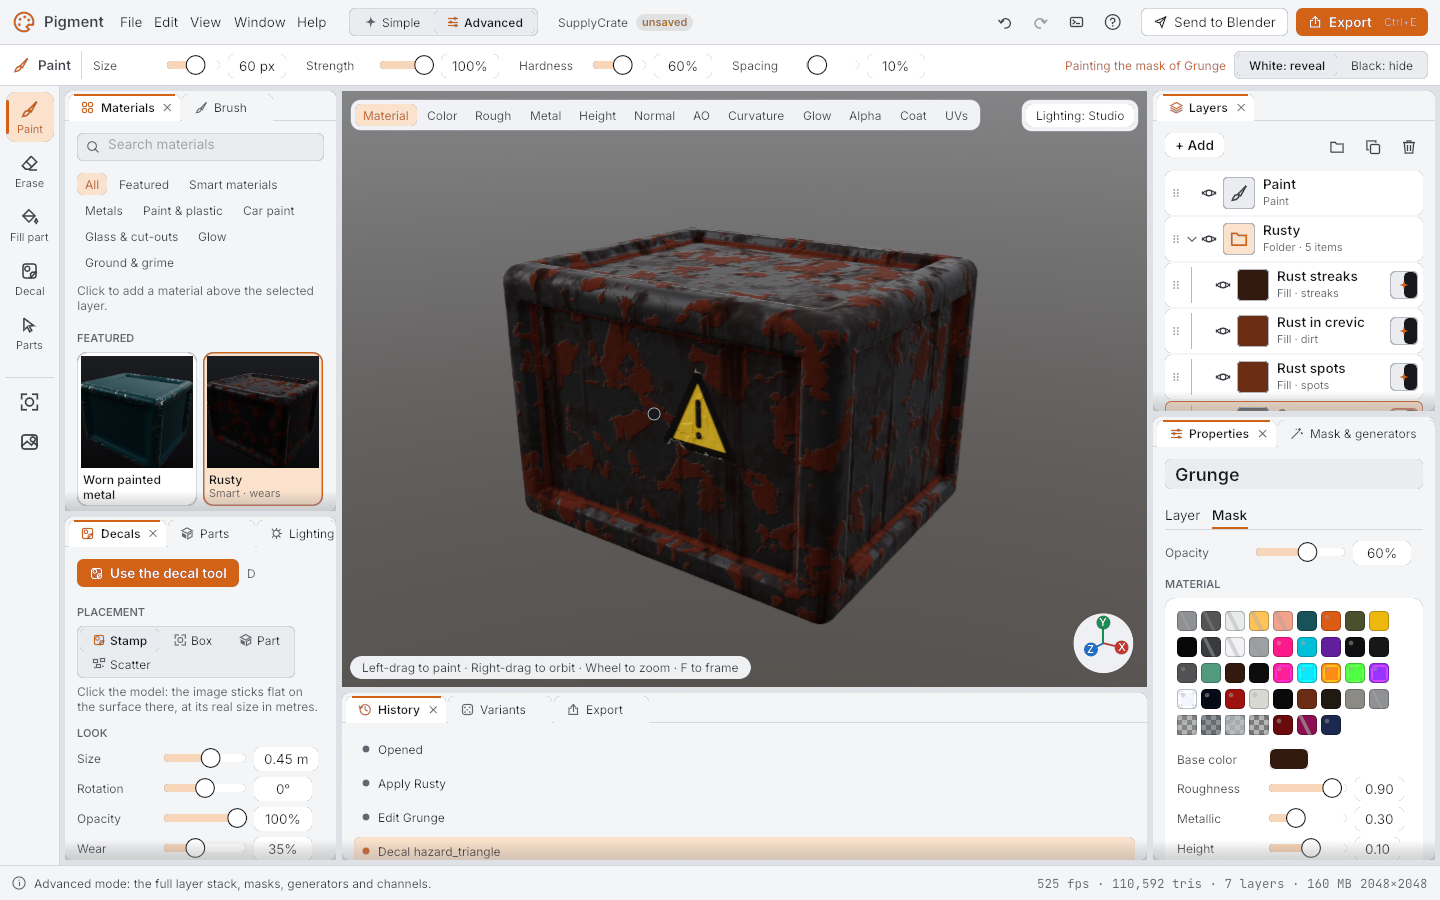
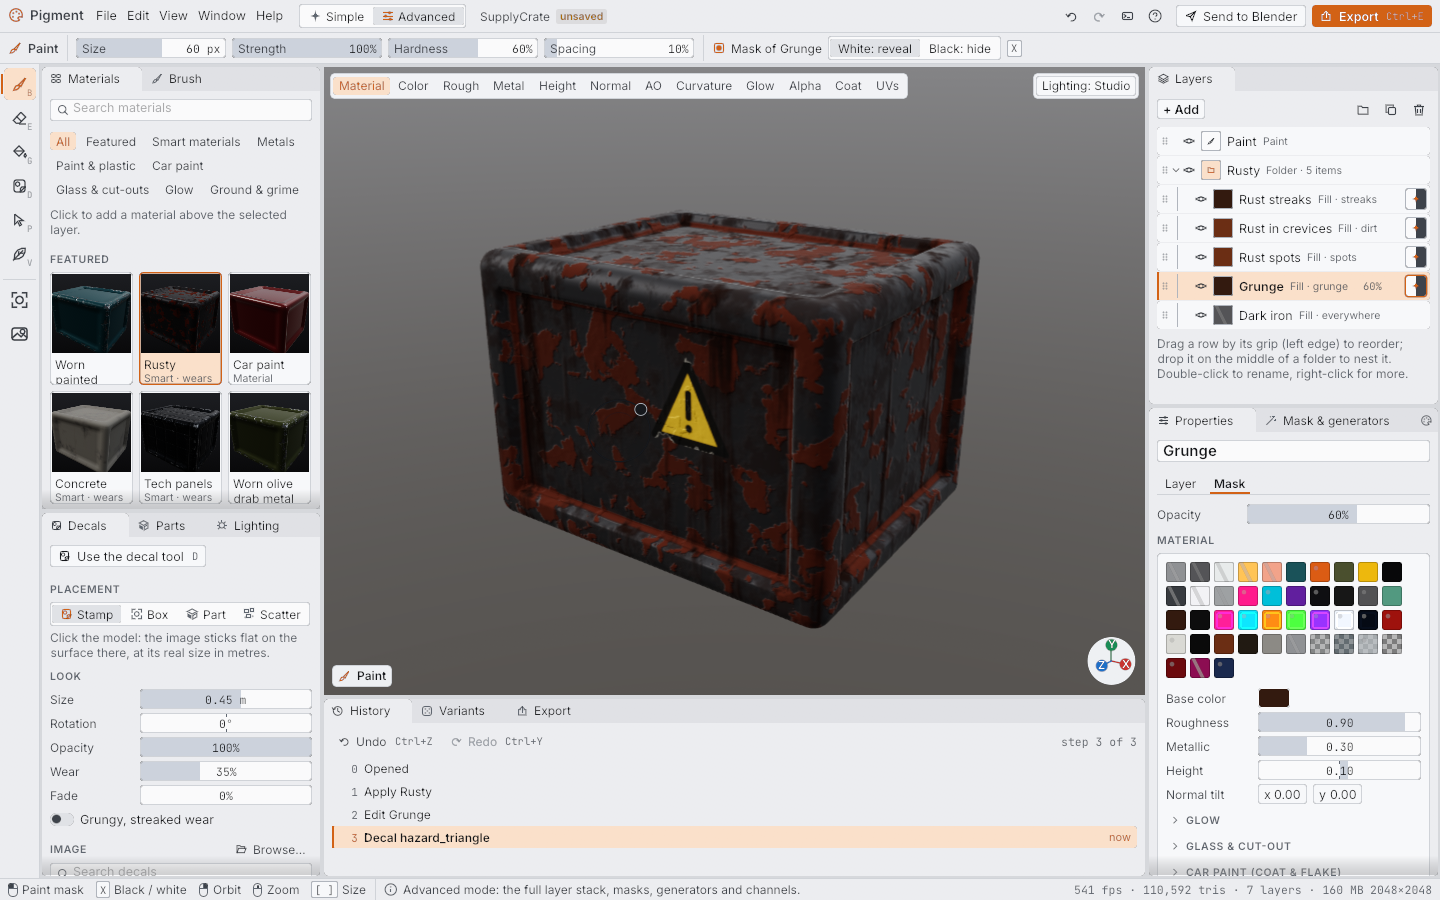
design: after screenshots, regenerated UI docs images and gallery, notes; signed drag fields mark zero with ticks

diff --git a/crates/app/src/app/design/components.rs b/crates/app/src/app/design/components.rs
@@ -969,7 +969,9 @@ impl Widget for DragField<'_> {
                 let (a, b) = (z.min(t), z.max(t));
                 let fill = Rect::from_min_max(pos2(rect.left() + rect.width() * a, rect.top()), pos2(rect.left() + rect.width() * b, rect.bottom()));
                 ui.painter().rect_filled(fill, CornerRadius::ZERO, c);
-                ui.painter().vline(rect.left() + rect.width() * z, rect.y_range().shrink(space::XS), Stroke::new(1.0, p.border_strong));
+                let zx = rect.left() + rect.width() * z;
+                ui.painter().vline(zx, rect.top()..=rect.top() + space::XS, Stroke::new(1.0, p.text_muted));
+                ui.painter().vline(zx, rect.bottom() - space::XS..=rect.bottom(), Stroke::new(1.0, p.text_muted));
             } else if t > 0.0 {
                 let fill = Rect::from_min_max(rect.min, pos2(rect.left() + rect.width() * t, rect.bottom()));
                 ui.painter().rect_filled(fill, CornerRadius { nw: radius::MD, sw: radius::MD, ne: if t > 0.99 { radius::MD } else { 0 }, se: if t > 0.99 { radius::MD } else { 0 } }, c);

diff --git a/docs/agents/design/NOTES.md b/docs/agents/design/NOTES.md
@@ -1,0 +1,41 @@
+# Design workstream: darker, compact, keyboard-first
+
+What changed (details in `docs/design/DESIGN_SYSTEM.md`, findings and status in
+`UX_AUDIT.md`):
+
+- **Tokens:** near-black, low-chroma palette (#161618 surround, #1E1F21 panels, #26272A
+  rows, #2E2F32 / #3C3E43 hairlines); the accent is reserved for the selection, the
+  active tool and the primary action; neutral drag-field fills; radii 2–4 pt; short
+  shadows; 12.5 / 12 / 11 pt type with tracked upper-case captions and mono values.
+- **Density:** `Density::Compact` (default, Blender-like 20–22 pt rows) and
+  `Comfortable` (the old spacing), in Settings, the View menu and Ctrl+K; stored in
+  `prefs.density`. Components read `design::metrics(ui)`.
+- **Components:** `DragField` (value inside the bar; drag, Shift fine, Ctrl snap,
+  double-click / Enter to type with simple maths, arrow-end nudges), `collapsible`
+  sections remembered in `prefs.sections`, `MenuItem` rows for every context menu,
+  status-bar `Hint`s with mouse glyphs, a stricter fuzzy `command_palette` with
+  highlighting and Recent, slimmer tabs, icon-only tool rail with key letters, toasts
+  with a status edge that hold while hovered, modals with a close button.
+- **Screens:** status bar shows the tool's (or hovered control's) mouse / key hints;
+  tool options use inline drag fields; layer rows are one line with an inline rename
+  (double-click / F2), panel shortcuts (Ctrl+D, Ctrl+G, H, Delete) and a full context
+  menu; History is numbered with Undo / Redo and a "now" marker; decals and foliage
+  cards have quick search; decal tiles have a context menu.
+- **Lint:** `no_raw_styles_outside_design` now also rejects `egui::Slider::new` and
+  `egui::CollapsingHeader::new` in screens. New tests: neutral dark chrome, density
+  ordering, fuzzy ranking, unit parsing, prefs round-trip of density and sections.
+
+How to look at it: `PIGMENT_SHOTS=<dir> cargo test -p pigment --release design_shots -- --ignored`
+renders every screen and panel offscreen (`crates/app/src/app/design_shots.rs`);
+`ui_screenshots` and `design_gallery_screenshots` regenerate the docs images.
+
+| | Before | After |
+|---|---|---|
+| Simple mode | ![](before_simple.png) | ![](after_simple.png) |
+| Advanced mode | ![](before_advanced.png) | ![](after_advanced.png) |
+| Layer stack | ![](before_layers.png) | ![](after_layers.png) |
+| Export dialog | ![](before_export_dialog.png) | ![](after_export_dialog.png) |
+| Command palette | ![](before_palette.png) | ![](after_palette.png) |
+
+Known limits: see "Left for later" in `UX_AUDIT.md` (context menus on parts and library
+materials, `DragValue` pairs without the fill bar, light theme not tuned as far).
